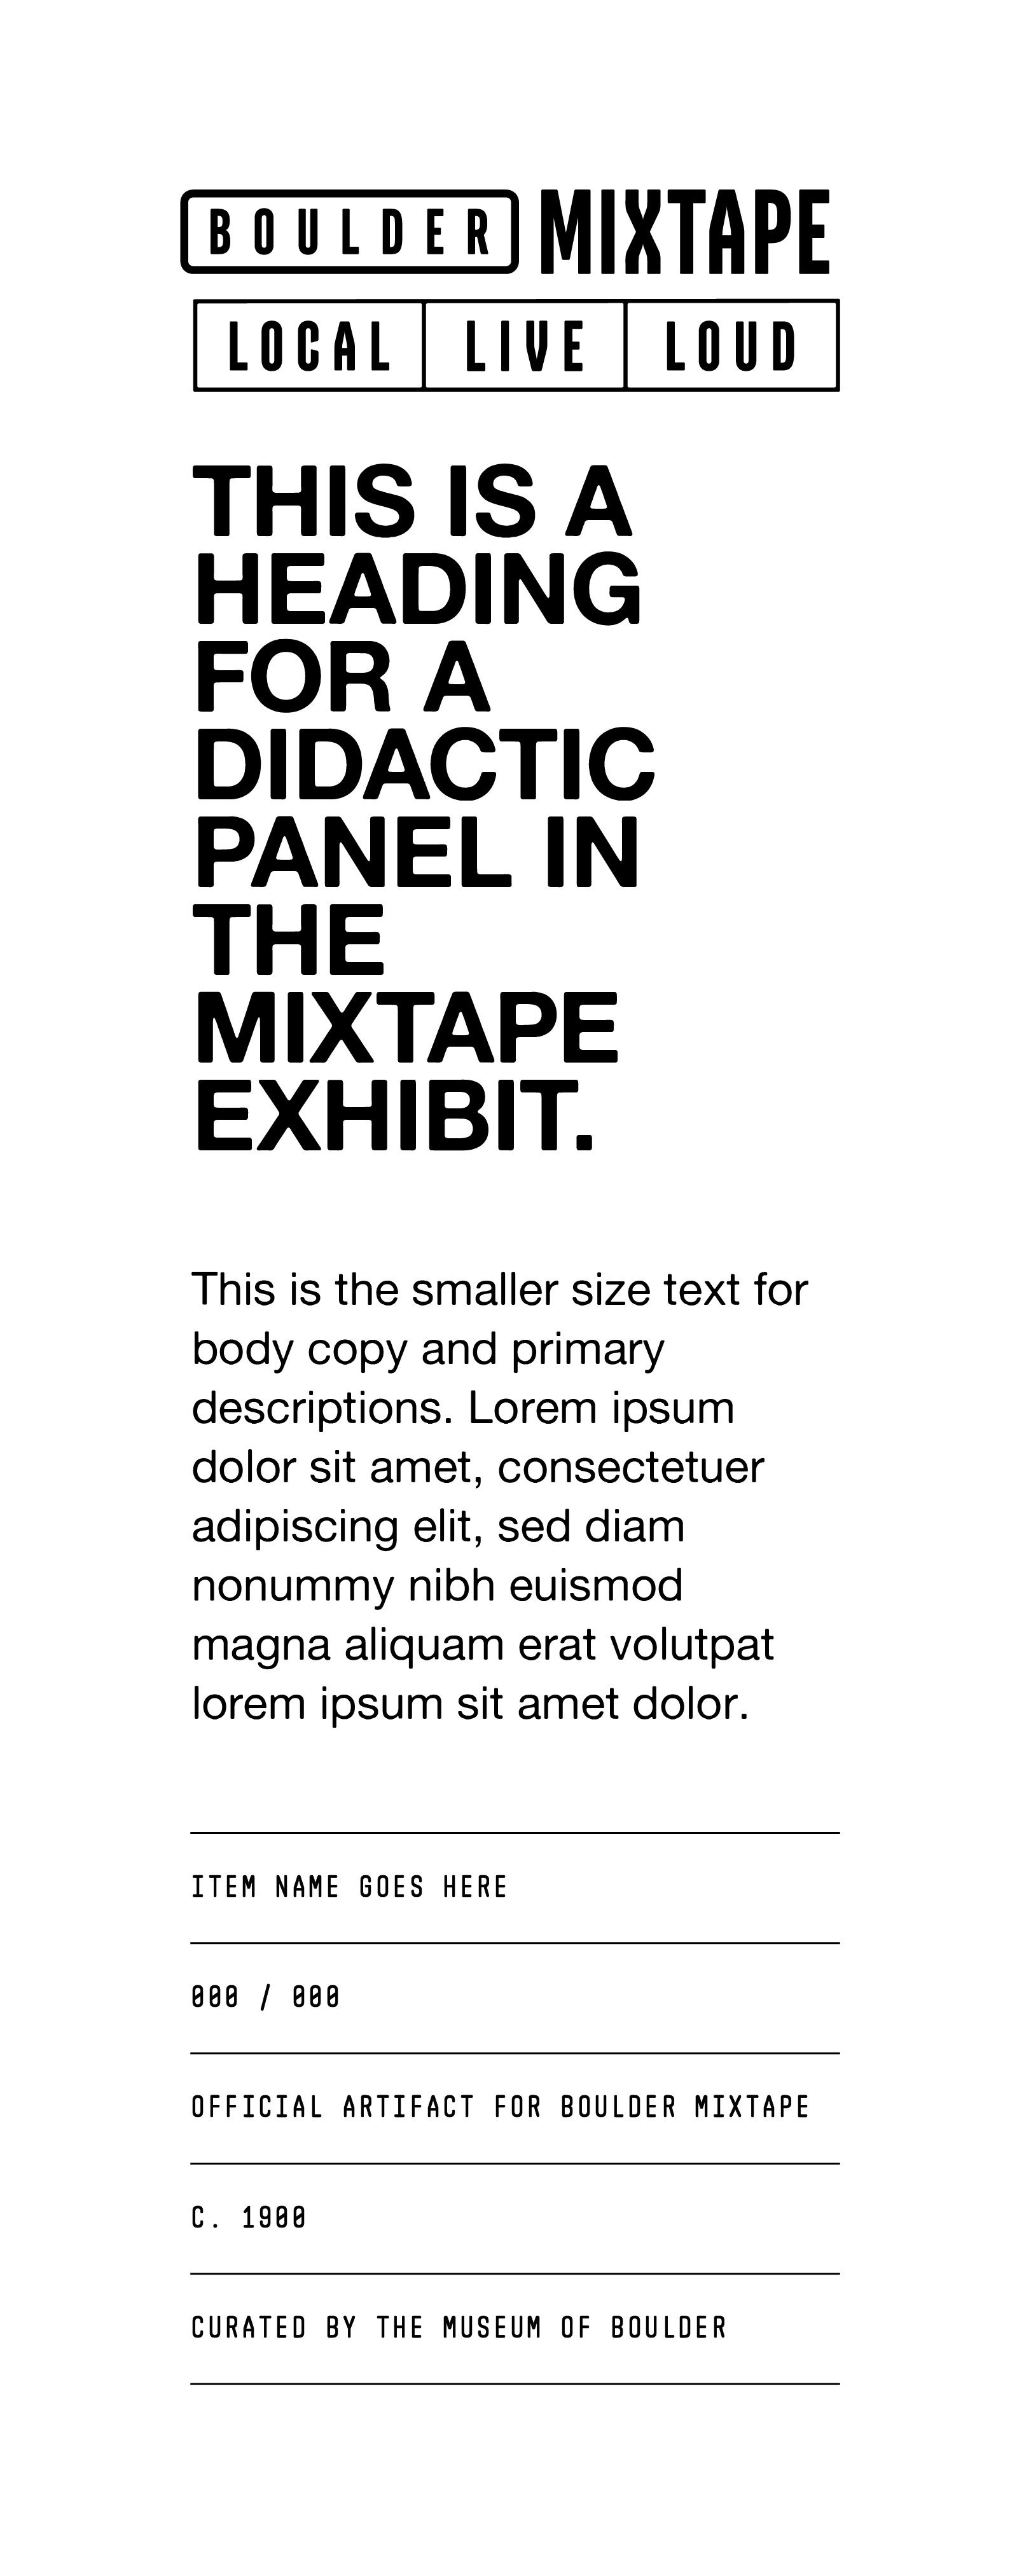
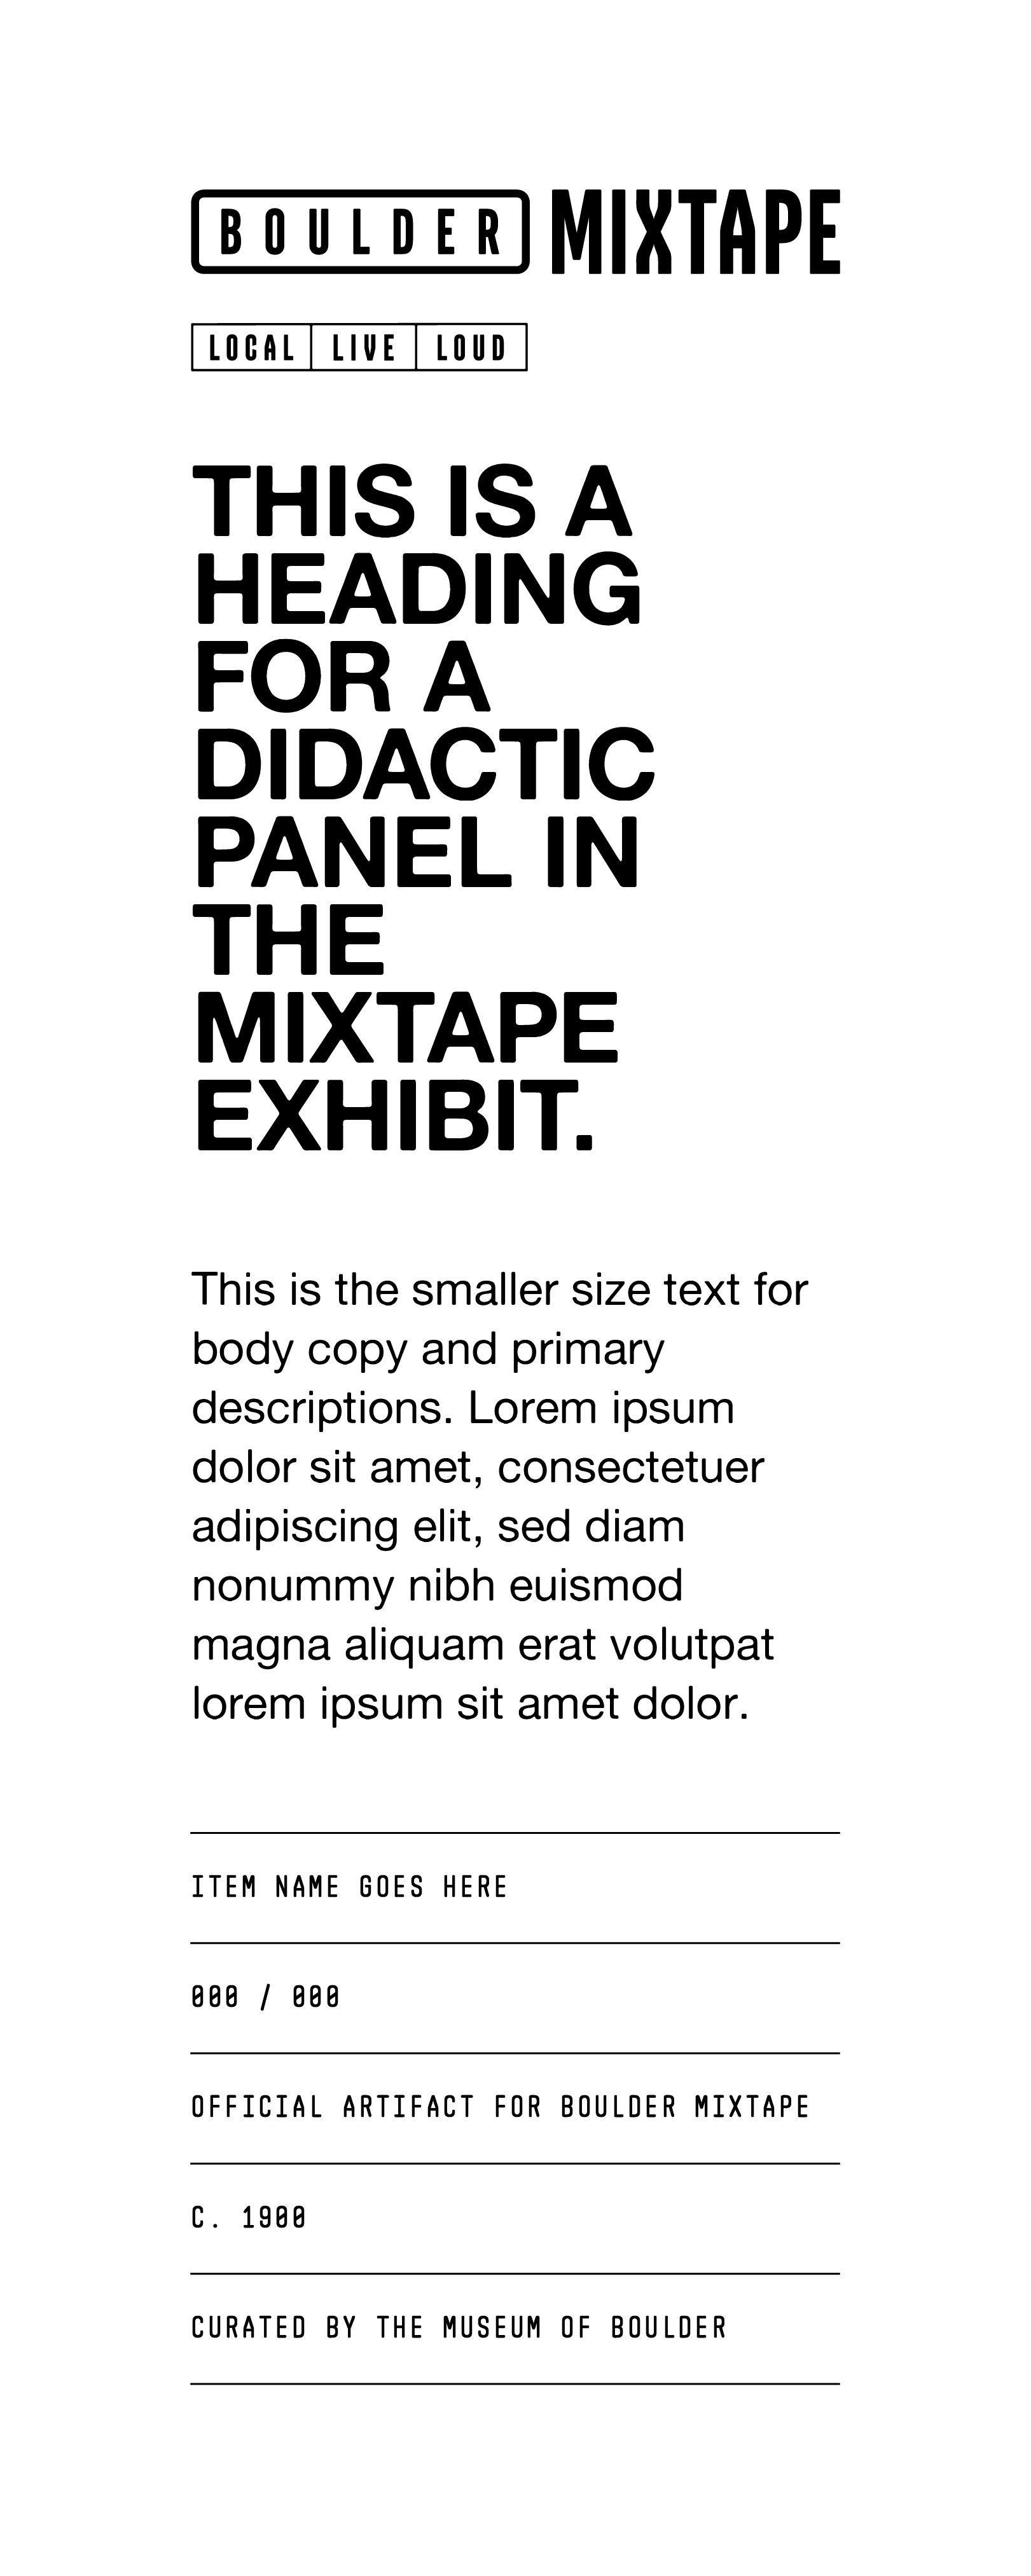
video

Changed region(s): [[0.1542, 0.0622, 0.8328, 0.1555]]

diff --git a/index.html b/index.html
@@ -231,6 +231,15 @@
   .btn-pill:hover{background:#e52c1e;color:#fff;}
   .btn-pill .arrow{font-size:16px;line-height:1;}
 
+  /* concept video poster (links to clip; Zoom blocks inline iframes) */
+  .videocard{position:relative;aspect-ratio:16/9;display:flex;flex-direction:column;align-items:center;justify-content:center;gap:20px;background:var(--ink);border:1px solid var(--ink);text-decoration:none;overflow:hidden;}
+  .videocard .vmark{width:min(46%,230px);height:auto;opacity:.92;}
+  .videocard .play{width:66px;height:66px;border-radius:50%;background:#fff;display:grid;place-items:center;transition:.15s ease;}
+  .videocard .play::after{content:"";width:0;height:0;border-left:21px solid var(--ink);border-top:13px solid transparent;border-bottom:13px solid transparent;margin-left:5px;}
+  .videocard:hover .play{background:#e52c1e;}
+  .videocard:hover .play::after{border-left-color:#fff;}
+  .videocard .vlabel{font-family:var(--font-mono);font-size:13px;letter-spacing:.06em;text-transform:uppercase;color:#fff;}
+
   /* footer */
   footer{border-top:1px solid rgba(255,255,255,.12);padding:42px 0 60px;background:#000;}
   .foot-inner{display:flex;justify-content:space-between;gap:24px;flex-wrap:wrap;
@@ -290,9 +299,11 @@
         <p class="lede">The wordmark is typographic only. Bold and built from the same visual tradition as the album covers and packaging of the period. It doesn't announce itself as a museum identity. It feels like it belongs alongside the artifacts on display.</p>
         <p class="lede">Inside the exhibit, the identity guides. Outside, it communicates. That's the line it holds across every application, from the banners on the street to the panel on the wall to the hat in the gift shop.</p>
       </div>
-      <div class="wm pos" style="aspect-ratio:16/9;padding:clamp(24px,5vw,52px);">
-        <img src="images/var-stacked-tag-s-pos.svg" alt="Boulder Mixtape stacked tag lockup">
-      </div>
+      <a class="videocard" href="https://us06web.zoom.us/clips/share/fXn4BeQ2RWWVSwQKdTt5Qg" target="_blank" rel="noopener" aria-label="Watch the walkthrough video">
+        <img class="vmark" src="images/wm-stacked-white.svg" alt="">
+        <span class="play"></span>
+        <span class="vlabel">Watch the walkthrough</span>
+      </a>
     </div>
   </div></section>
 
@@ -367,7 +378,7 @@
       <figure class="shot" style="aspect-ratio:1/1;"><img src="images/didactic-square.jpg" alt="Didactic square format"></figure>
       <figure class="shot" style="aspect-ratio:2/1;"><img src="images/didactic-wide.jpg" alt="Didactic wide format"></figure>
       <figure class="shot" style="aspect-ratio:1100/1375;"><img src="images/didactic-portrait.jpg" alt="Didactic portrait format"></figure>
-      <figure class="shot" style="aspect-ratio:800/1999;"><img src="images/didactic-tall.jpg" alt="Didactic tall format"></figure>
+      <figure class="shot" style="aspect-ratio:1621/4051;"><img src="images/didactic-tall.jpg" alt="Didactic tall format"></figure>
     </div>
   </div></section>
 